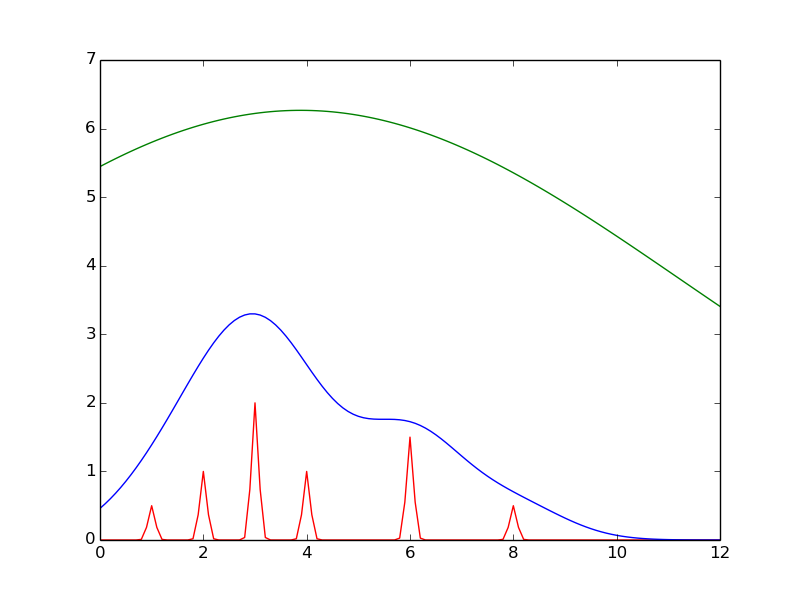
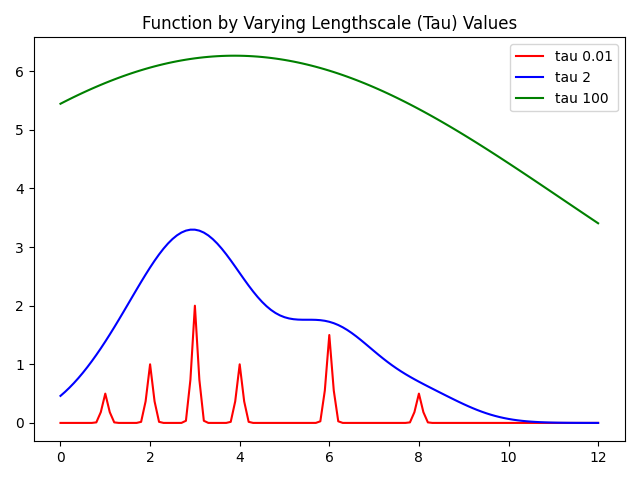
pset done

diff --git a/HW1/T1_P1.py b/HW1/T1_P1.py
@@ -15,6 +15,7 @@ data = [(0., 0.),
         (6., 1.5),
         (8., 0.5)]
 
+# computes loss with formula found in problem 1.1
 def compute_loss(tau):
     loss = 0
     for i in range(len(data)):
@@ -24,15 +25,17 @@ def compute_loss(tau):
             x_j, y_j = data[j]
             if i != j:
                 minisum += y_j * np.exp(-1*np.transpose(x_i - x_j)*(x_i-x_j)/tau)
-        loss += (y_i - minisum) * (y_i - minisum)
+        loss += (y_i - minisum) ** 2
     return loss
 
 for tau in (0.01, 2, 100):
     print("Loss for tau = " + str(tau) + ": " + str(compute_loss(tau)))
 
+# kernel function as defined in the problem
 def kern(x, x_prime, tau):
     return np.exp(-1*np.transpose(x - x_prime)*(x-x_prime)/tau)
 
+# function f as defined in the problem
 def f(x, tau):
     sum = 0
     for x_i, y_i in data:
@@ -48,7 +51,39 @@ def plot():
     plt.plot(x, y1, color='red', label='tau 0.01')
     plt.plot(x, y2, color='blue', label='tau 2')
     plt.plot(x, y3, color='green', label='tau 100')
+    plt.title("Function by Varying Lengthscale (Tau) Values")
+    plt.legend(loc='upper right')
+    plt.tight_layout()
     plt.savefig("plot.png", facecolor="white")
     plt.show()
 
-# plot()
+plot()
+
+# computes the gradient as found in part 1.2
+def compute_grad(tau):
+    grad = 0
+    for i in range(len(data)):
+        x_i, y_i = data[i]
+        minisum = 0
+        for j in range(len(data)):
+            x_j, y_j = data[j]
+            if i != j:
+                minisum += y_j * np.exp(-1*np.transpose(x_i - x_j)*(x_i-x_j)/tau)
+        part_one = y_i - minisum
+        part_two = 0
+        for j in range(len(data)):
+            x_j, y_j = data[j]
+            if i != j:
+                chain_one = y_j * np.exp(-1*np.transpose(x_i - x_j)*(x_i-x_j)/tau)
+                part_two += chain_one*np.transpose(x_i - x_j)*(x_i-x_j)
+        grad += part_one * part_two
+    return -2*grad/(tau**2)
+
+# performs gradient descent starting from tau=2    
+def gradient_descent(learning_rate=0.01, iterations=1000):
+    tau = 2
+    for i in range(iterations):
+        tau = tau - learning_rate * compute_grad(tau)
+    return tau
+
+print(gradient_descent())

diff --git a/HW1/T1_P4.py b/HW1/T1_P4.py
@@ -75,7 +75,6 @@ def make_basis(xx,part='a',is_years=True):
             arr.append(xx**i)
     
     elif part == "b":
-        # arange for years
         miu_j = 1960
         while miu_j <= 2010:
             cur = np.exp((-(xx-miu_j)**2)/25)
@@ -118,17 +117,21 @@ for part in ['a', 'b', 'c', 'd']:
     plt.plot(years, republican_counts, 'o', grid_years, grid_Yhat, '-')
     plt.xlabel("Year")
     plt.ylabel("Number of Republicans in Congress")
+    plt.title("Basis " + part.upper() + ": Year v. Number of Republicans in the Senate")
+    plt.tight_layout()
+    plt.savefig("1_basis_"+part+".png", facecolor="white")
     plt.show()
 
     predictions = np.dot(years_basis, w) # 24 vector to calculate loss
     print(sum((predictions - republican_counts)**2))
 
 print()
-grid_sunspots = np.linspace(sunspot_counts[0], sunspot_counts[1], 40)
-count = 1
-for year in range(1965, 1985, 5):
-    grid_sunspots = np.append(grid_sunspots, np.linspace(sunspot_counts[count], sunspot_counts[count+1], 40))
-    count += 2
+
+# convert data to restrict to years before 1985
+sunspot_counts = sunspot_counts[years<last_year]
+republican_counts = republican_counts[years<last_year]
+max_val = max(sunspot_counts)
+grid_sunspots = np.linspace(0, max_val, 200)
 
 print("Losses for sunspots")
 
@@ -141,14 +144,13 @@ for part in ['a', 'c', 'd']:
     plt.plot(sunspot_counts, republican_counts, 'o', grid_sunspots, grid_Yhat, '-')
     plt.xlabel("Number of Sunspots")
     plt.ylabel("Number of Republicans in Congress")
+    plt.title("Basis " + part.upper() + ": Number of Sunspots v. Number of Republicans in the Senate")
+    plt.tight_layout()
+    plt.savefig("2_basis_"+part+".png", facecolor="white")
+    plt.show()
     plt.show()
 
     predictions = np.dot(sunspots_basis, w) # 24 vector to calculate loss
-    print(sum((predictions - sunspot_counts)**2))
-
-# w = 1
-# grid_Yhat  = np.dot(grid_X, w)
-# print(grid_years.shape)
-# print('yay')
+    print(sum((predictions - republican_counts)**2))
 
 # TODO: plot and report sum of squared error for each basis

diff --git a/HW1/T1_P2.py b/HW1/T1_P2.py
@@ -30,6 +30,7 @@ x_test = np.arange(0, 12, .1)
 print("y is:")
 print(y_train)
 
+# kernel function as defined in problem 1
 def kern(x, x_prime, tau):
     return np.exp(-1*np.transpose(x - x_prime)*(x-x_prime)/tau)
 
@@ -42,10 +43,9 @@ def predict_knn(k=1, tau=1):
         for i in range(len(data)):
             x_t = x_train[i]
             arr.append((kern(x, x_t, tau), i))
-        arr.sort(reverse=True)
+        arr.sort(reverse=True) # sort by kernel values in decreasing order
         sum = 0
         for i in range(k):
-            # print(arr)
             sum += y_train[int(arr[i][1])]
         res[index] = sum/k
         index += 1
